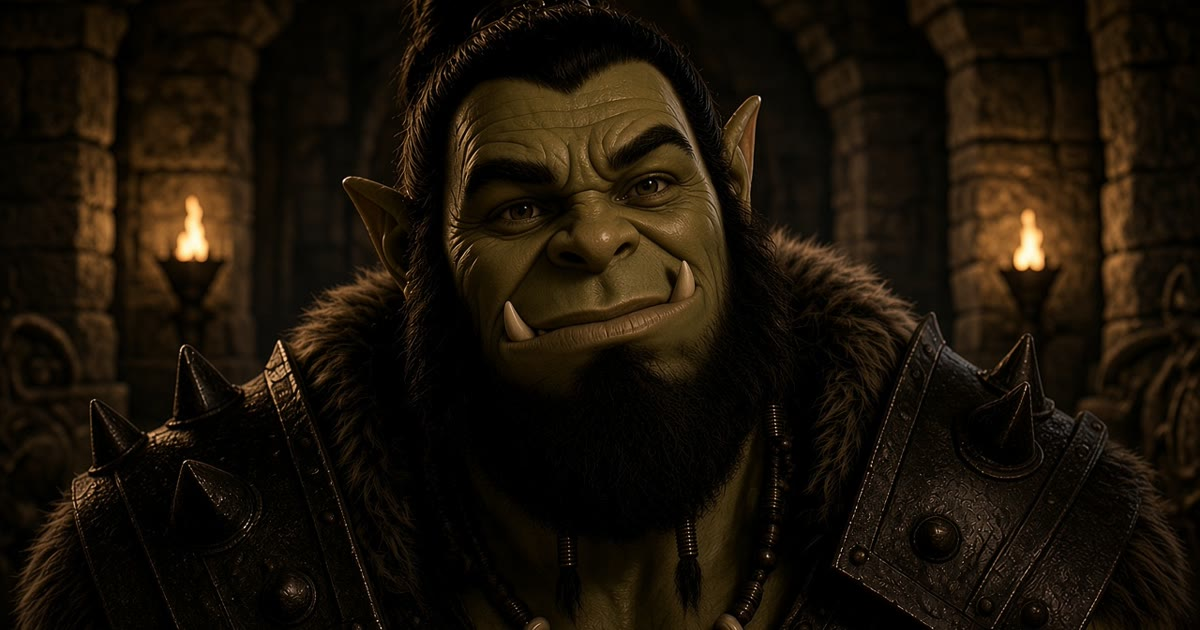
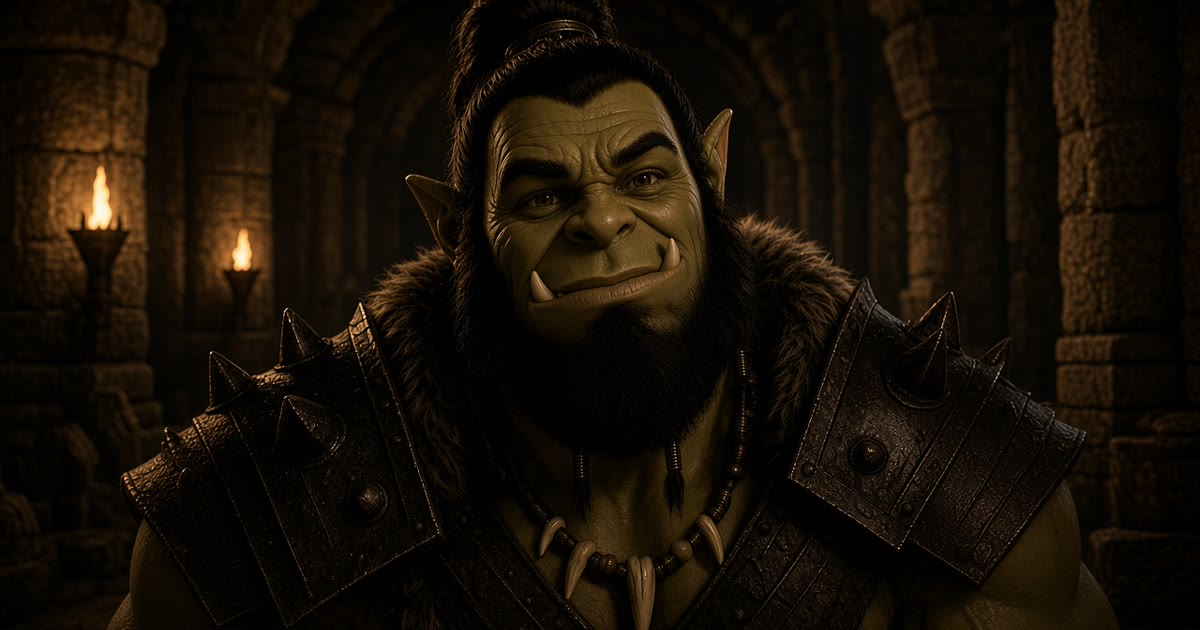
Reshoot Crazy nod as a push-in.
The camera moves in on his face while he gives a smaller, eager yes nod.

diff --git a/scripts/imagine-video.ts b/scripts/imagine-video.ts
@@ -24,7 +24,7 @@ const DURATIONS: Record<string, number> = {
   annoyed: 6,
   celebrate: 6,
   congratulations: 6,
-  "crazy-nod": 4,
+  "crazy-nod": 5,
   approves: 6,
   damn: 6,
   fishing: 6,
@@ -57,7 +57,7 @@ const PROMPTS: Record<string, string> = {
   cooked:
     "The orc slowly stirs the pot, steam rising. He looks exhausted and done, a tired blink, the word COOKED staying readable. Natural character motion, locked camera.",
   "crazy-nod":
-    "He nods three separate times and comes back upright after each one. Nod one: chin dips, then his head pops back up. Nod two: chin dips, then his head pops back up. Nod three: chin dips, then his head pops back up. The closed-mouth smirk never changes. Eyes stay open. He does not stay bowed. He does not lean in. He does not open his mouth or raise his hands. Locked camera, no zoom.",
+    "Slow zoom in on his face. Small quick yes nods the whole time: chin dips a little, then pops back up, over and over. Closed-mouth smirk stays. Eyes stay open. He does not bow, lean, or open his mouth. Hands stay down.",
   curious:
     "The orc leans in a little closer, tilts his head, eyes widening with curiosity, a small interested blink. Locked camera.",
   dance:
